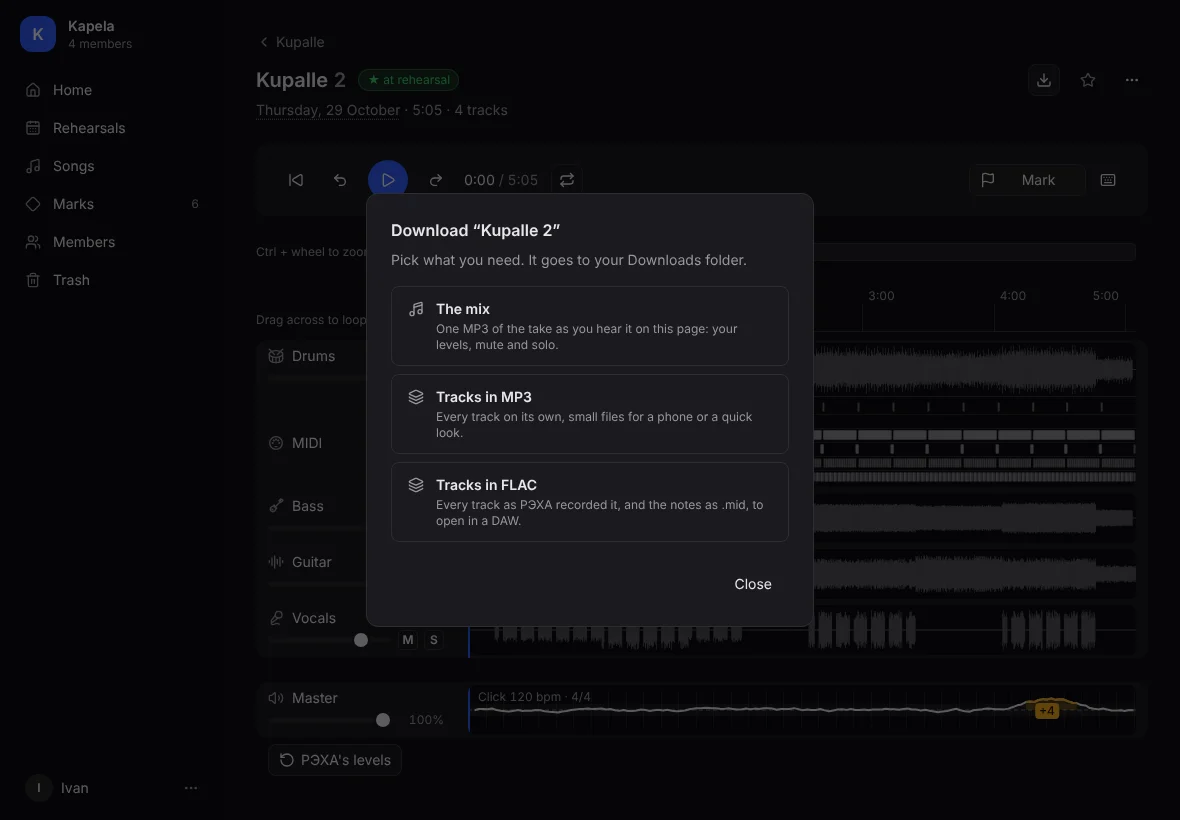
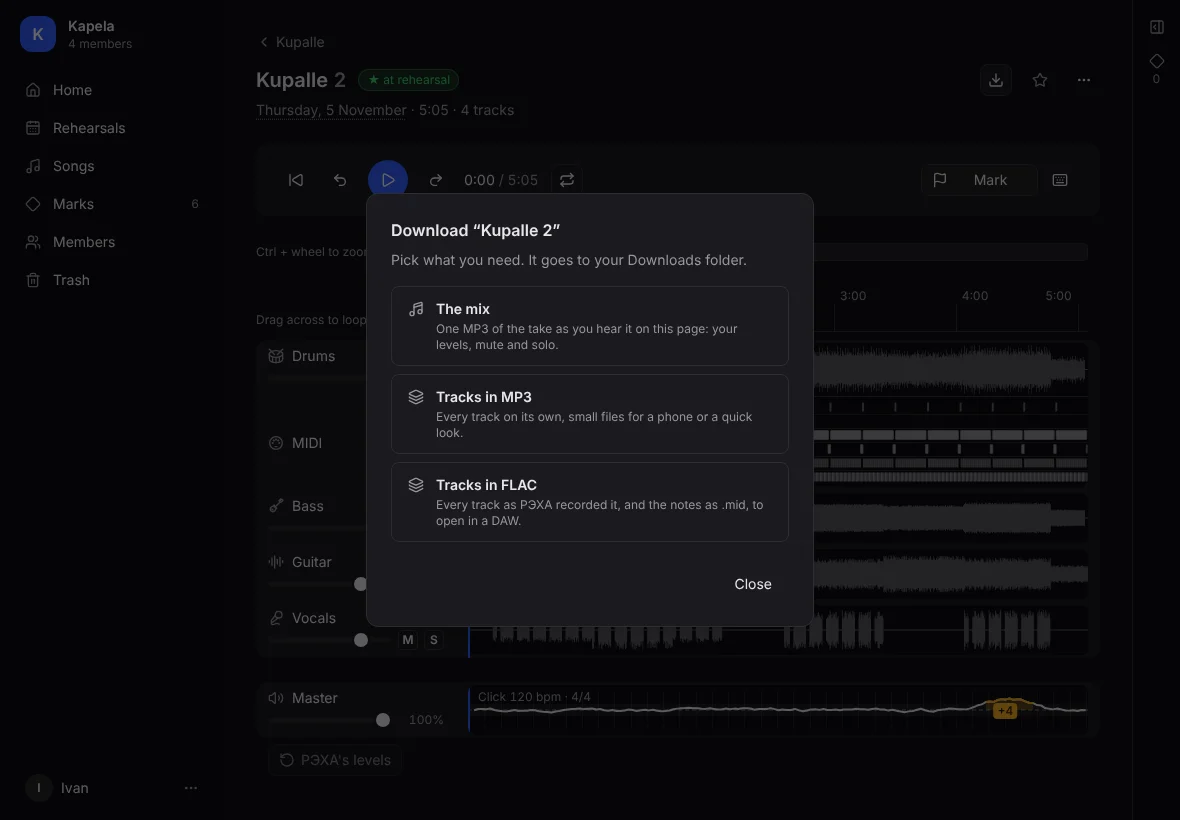
Words and the site's picture for the lighter panel
CHANGELOG and the design system say what changed; the Download picture
on reha.stream is taken again, since a take's page now has the strip.

diff --git a/CHANGELOG.md b/CHANGELOG.md
@@ -7,6 +7,12 @@ opening.
 
 ## Unreleased
 
+- **The band service's panel covers less of the page.** A song's name opens
+  the song's page, and **New song**, **Statuses** and **Labels** open at the
+  top of **Songs** and **Marks**. On a take's page its marks sit in a strip
+  along the right edge: the diamond with their count opens them over the
+  lanes, and the panel folds back into the strip. On a phone a take's name
+  opens the take's page.
 - **A take can leave its song in the band service.** A jam that came in
   under a song's title because the name field still said so goes to **Not
   named** with ⋯ › **Move to song** › **Not named**, and gets the name Take 3

diff --git a/docs/design-system.md b/docs/design-system.md
@@ -80,6 +80,9 @@ showcase and reha.stream all import. A screen uses the names (`bg-primary`,
   One exception: the band service's panel from the right is white in the
   light theme, as a page is (Alex, 5 November 2026). Its column on the left
   stays grey, and in the dark theme the panel keeps its colour.
+  On a take's page the panel folds into a strip 48 px wide along the right
+  edge, in that column's grey, with a sign for each of its sections (Alex,
+  8 November 2026).
 
 ### Type
 
